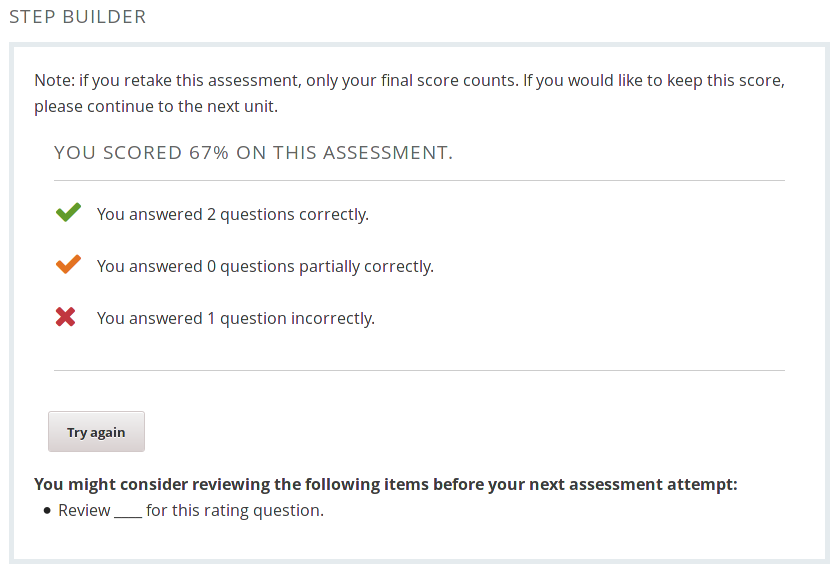
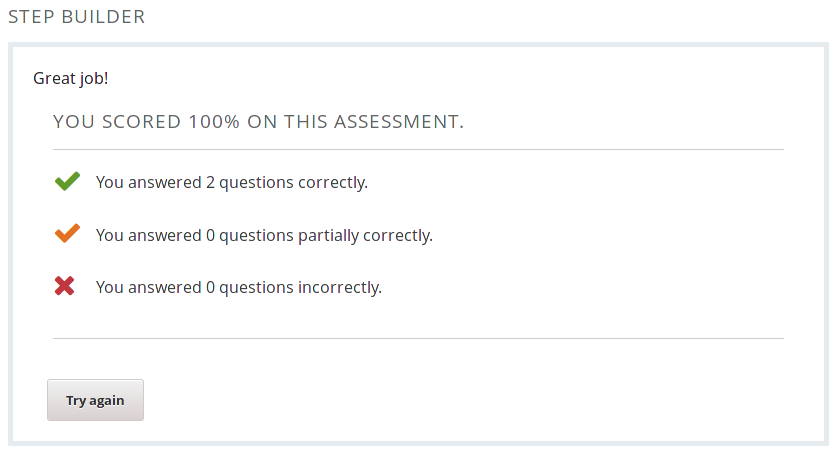
Update documentation.

diff --git a/doc/Usage.md b/doc/Usage.md
@@ -59,10 +59,23 @@ Step Builder will display one step at a time. All questions belonging
 to a step need to be completed before the step can be submitted.
 
 In addition to regular steps, Step Builder also provides a **Review
-Step** block which allows students to review their performance, and to
-jump back to individual steps to review their answers (if **Extended
-feedback** setting is on and maximum number of attempts has been
-reached). Note that only one such block is allowed per instance.
+Step** block which
+
+* allows students to review their performance
+
+* allows students to jump back to individual steps to review their
+  answers (if **Extended feedback** setting is on and maximum number
+  of attempts has been reached)
+
+* supports customizable messages that will be shown when
+
+  * the block is *complete*, i.e., if all answers that the student
+    provided are correct
+  * the block is *incomplete*, i.e., if some answers that the student
+    provided are incorrect or partially correct
+  * the student has used up all attempts
+
+Note that only one such block is allowed per instance.
 
 **Screenshots: Step**
 
@@ -80,10 +93,11 @@ partially correct).
 
 **Screenshots: Review Step**
 
-Unlimited attempts available:
+Unlimited attempts available, all answers correct:
 
 ![Unlimited attempts available](img/review-step-unlimited-attempts-available.png)
-Limited attempts, some attempts remaining:
+
+Limited attempts, some attempts remaining, some answers incorrect:
 
 ![Some attempts remaining](img/review-step-some-attempts-remaining.png)
 
